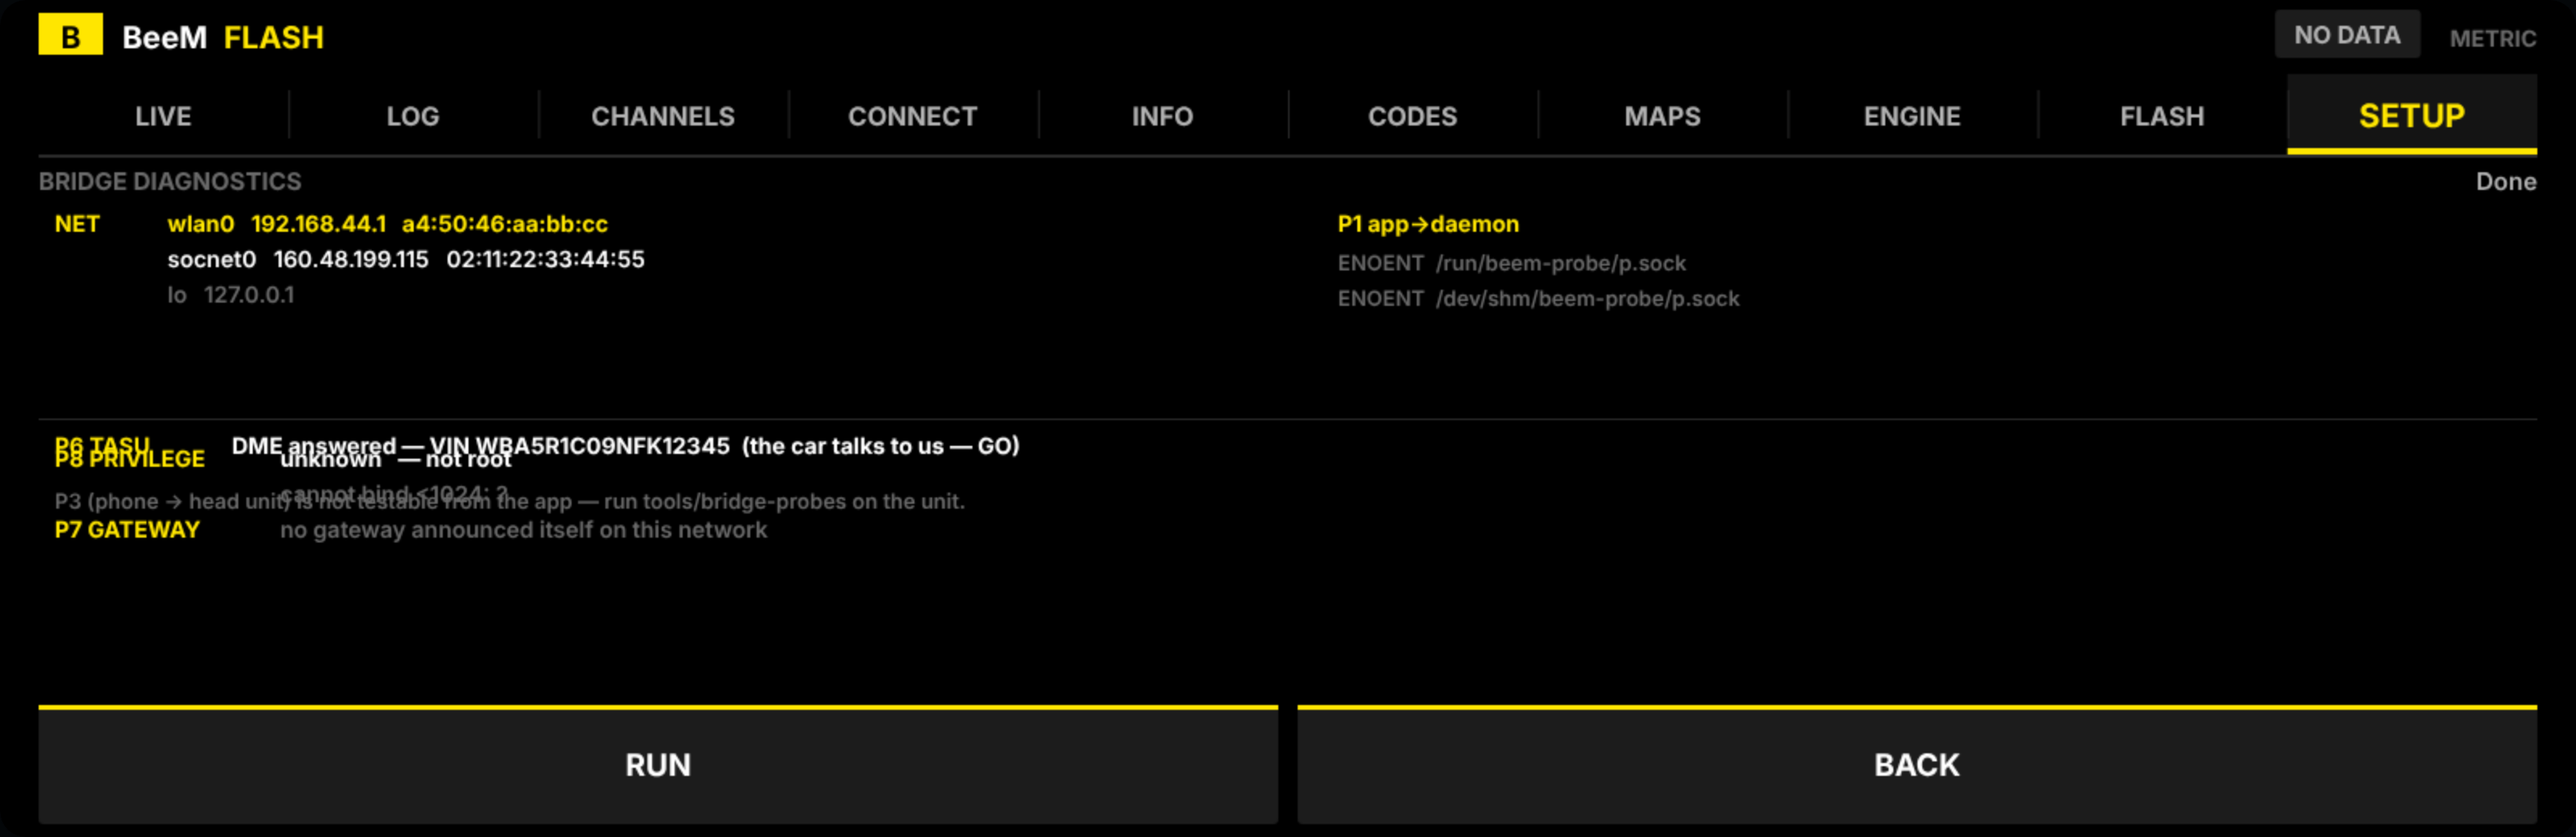
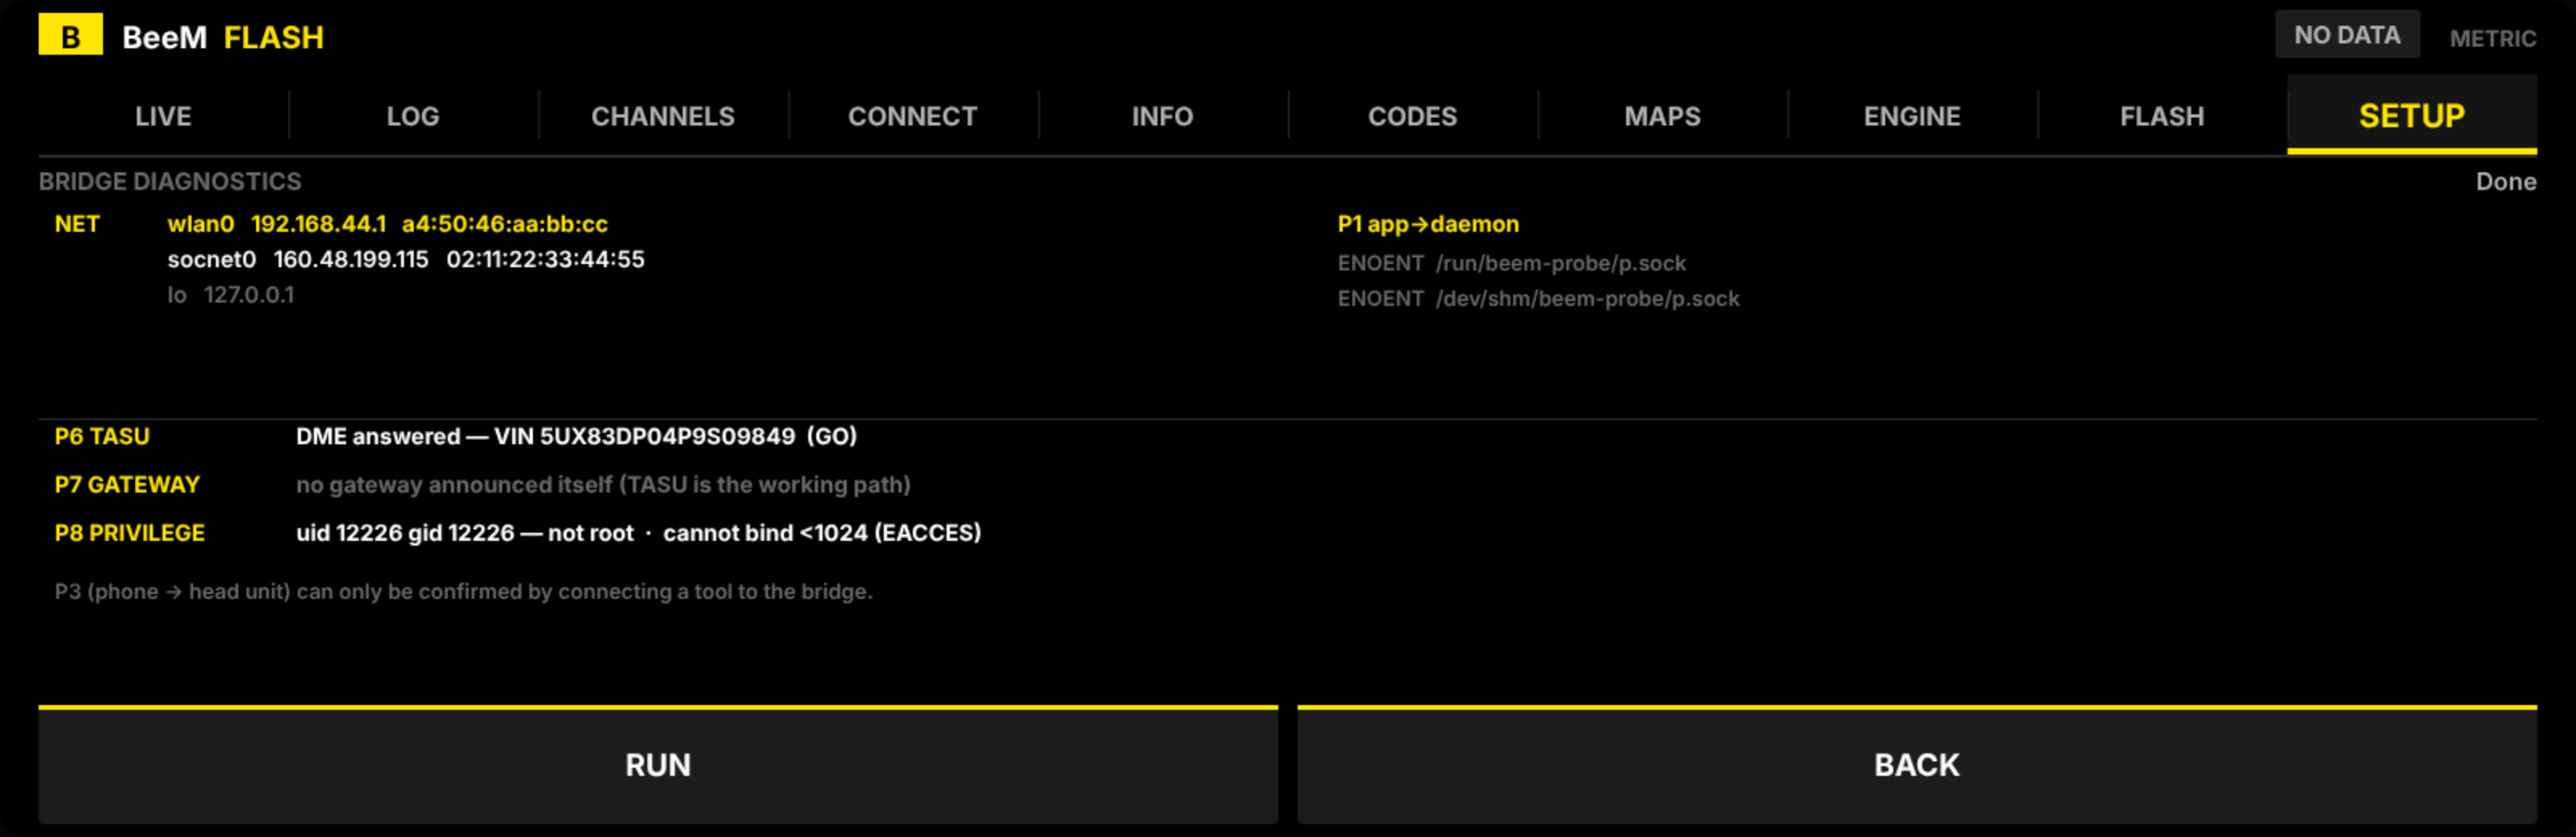
v2.21.1: make the bridge listener re-bind reliably, and declutter DIAG
On-car the bridge failed to come up with EADDRINUSE, which blocks every
connection. Cause: stop() closed the server but left open tool connections
alive, so the OS did not release the port before the next start() - a quick
off/on (or the app restarting on car wake) then hit EADDRINUSE.

- stop() now destroys any open tool connections first, so the socket is
  released promptly.
- start() retries the bind through EADDRINUSE up to 6 times with a growing
  pause (300ms..1.5s), dropping any listener we still hold between tries,
  instead of giving up after one retry.

DIAG page (SETUP -> DIAGNOSTICS) was cluttered: P6/P8/P3 drew on top of each
other. The lower half is now one probe per row, evenly spaced and each line
clipped to its width - P6 TASU, P7 GATEWAY, P8 PRIVILEGE, then the P3 note.

542 tests pass (4 new): an open tool connection is tracked, stop() destroys
it, and binding the SAME port again immediately after stop() succeeds.

Claude-Session: https://claude.ai/code/session_016L48f8yNjthyyRfnj72ByZ

Changed region(s): [[0.0, 0.4923, 0.4062, 0.6462], [0.0312, 0.6769, 0.3438, 0.7385]]

diff --git a/apps/wali_datalog/bridgeserver.js b/apps/wali_datalog/bridgeserver.js
@@ -56,7 +56,40 @@ BridgeServer.prototype._net = function () {
 // start() -> Promise<{ ok, host, port, error }>
 // Never throws: a sandbox refusal is an ANSWER (and the UI shows the errno),
 // not a crash.
-BridgeServer.prototype.start = function (_retried) {
+// A single bind attempt. Resolves { ok, host, port } or { ok:false, error }.
+BridgeServer.prototype._bindOnce = function () {
+  var self = this, net = this._net();
+  return new Promise(function (resolve) {
+    var settled = false;
+    function settle(r) { if (!settled) { settled = true; resolve(r); } }
+    var srv;
+    try { srv = net.createServer(function (c) { self._onTool(c); }); }
+    catch (e) { return settle({ ok: false, error: (e && (e.code || e.message)) || String(e) }); }
+    srv.on('error', function (e) {
+      var code = (e && e.code) ? e.code : ((e && e.message) || String(e));
+      try { srv.close(); } catch (x) {}
+      settle({ ok: false, error: code });
+    });
+    function ready() {
+      self.server = srv; self.listening = true; self.lastError = null;
+      var a = null; try { a = srv.address(); } catch (e) {}
+      self.boundHost = (a && a.address) ? a.address : (self.host || '0.0.0.0');
+      self._log('bridge listening on ' + self.boundHost + ':' + self.port);
+      settle({ ok: true, host: self.boundHost, port: self.port });
+    }
+    try {
+      if (self.host) srv.listen(self.port, self.host, ready);
+      else srv.listen(self.port, ready);
+    } catch (e) { settle({ ok: false, error: (e && (e.code || e.message)) || String(e) }); }
+  });
+};
+
+// Bring the listener up, retrying through EADDRINUSE. That code almost always
+// means OUR OWN previous listener has not finished releasing the port (a fast
+// off/on, a reload, or the app restarting on car wake), so we drop whatever we
+// are still holding and try again a few times with a growing pause before
+// reporting failure.
+BridgeServer.prototype.start = function () {
   var self = this;
   if (this.listening) return Promise.resolve({ ok: true, host: this.boundHost, port: this.port });
   var net = this._net();
@@ -64,58 +97,30 @@ BridgeServer.prototype.start = function (_retried) {
     this.lastError = 'no socket support in this runtime';
     return Promise.resolve({ ok: false, error: this.lastError });
   }
-  return new Promise(function (resolve) {
-    var settled = false;
-    function settle(r) { if (!settled) { settled = true; resolve(r); } }
-    var srv;
-    try { srv = net.createServer(function (c) { self._onTool(c); }); }
-    catch (e) {
-      self.lastError = (e && (e.code || e.message)) || String(e);
-      return settle({ ok: false, error: self.lastError });
-    }
-    srv.on('error', function (e) {
-      // EACCES / EPERM -> the sandbox forbids listening (the helper is needed).
-      // EADDRINUSE     -> the port is still held, almost always by OUR OWN
-      //   previous listener that had not finished closing (toggling off then
-      //   on fast, or a reload). Drop whatever we have and try ONCE more after
-      //   a moment before giving up.
-      var code = (e && e.code) ? e.code : ((e && e.message) || String(e));
-      self.listening = false;
-      self.server = null;
-      self._log('bridge listener failed: ' + code);
-      if (code === 'EADDRINUSE' && !_retried) {
-        try { srv.close(); } catch (x) {}
-        setTimeout(function () {
-          self.start(true).then(settle);
-        }, 600);
-        return;
+  var MAX = 6;
+  function loop(n) {
+    return self._bindOnce().then(function (r) {
+      if (r.ok) return r;
+      if (r.error === 'EADDRINUSE' && n < MAX) {
+        if (self.server) { try { self.server.close(); } catch (e) {} self.server = null; }
+        self.listening = false;
+        return new Promise(function (res) { setTimeout(res, 300 * n); }).then(function () { return loop(n + 1); });
       }
-      self.lastError = code;
-      settle({ ok: false, error: code });
+      self.lastError = r.error; self.listening = false; self.server = null;
+      self._log('bridge listener failed: ' + r.error);
+      return r;
     });
-    try {
-      if (self.host) srv.listen(self.port, self.host, ready);
-      else srv.listen(self.port, ready);
-    } catch (e) {
-      self.lastError = (e && (e.code || e.message)) || String(e);
-      return settle({ ok: false, error: self.lastError });
-    }
-    function ready() {
-      self.server = srv;
-      self.listening = true;
-      self.lastError = null;
-      var a = null;
-      try { a = srv.address(); } catch (e) {}
-      self.boundHost = (a && a.address) ? a.address : (self.host || '0.0.0.0');
-      self._log('bridge listening on ' + self.boundHost + ':' + self.port);
-      settle({ ok: true, host: self.boundHost, port: self.port });
-    }
-  });
+  }
+  return loop(1);
 };
 
 BridgeServer.prototype.stop = function () {
   this.peers = [];
   this.listening = false;
+  // Drop any open tool connections first; otherwise server.close() lingers until
+  // they end and the port is not released, which is what caused EADDRINUSE on a
+  // quick off/on.
+  if (this._conns) { this._conns.forEach(function (c) { try { c.destroy(); } catch (e) {} }); this._conns = []; }
   if (this.server) { try { this.server.close(); } catch (e) {} this.server = null; }
 };
 
@@ -139,6 +144,8 @@ BridgeServer.prototype._onTool = function (c) {
   var self = this;
   var peer = { ip: c.remoteAddress || '?', mac: null };
   this.peers.push(peer);
+  if (!this._conns) this._conns = [];
+  this._conns.push(c);
   var mode = null;                    // 'doip' | 'raw' — decided from the first bytes
   var buf = Buffer.alloc(0);
   this._log('tool connected from ' + peer.ip);
@@ -203,6 +210,7 @@ BridgeServer.prototype._onTool = function (c) {
 
   function gone() {
     for (var i = 0; i < self.peers.length; i++) if (self.peers[i] === peer) { self.peers.splice(i, 1); break; }
+    if (self._conns) for (var j = 0; j < self._conns.length; j++) if (self._conns[j] === c) { self._conns.splice(j, 1); break; }
   }
   c.on('error', gone);
   c.on('close', gone);

diff --git a/apps/wali_datalog/screens.js b/apps/wali_datalog/screens.js
@@ -700,46 +700,52 @@ function setupDiag(cv, t, view, R) {
     cv.text(sk.status.toUpperCase() + '  ' + sk.path, R2, y + 24 + j * 22, 15, okk ? t.accent : t.faint, { weight: okk ? 'bold' : 'normal' });
   }
   if (!socks.length) cv.text('no socket paths tested', R2, y + 24, 15, t.faint, {});
-  // TASU (P6)
-  var ty = R.y + 150;
-  cv.fillRect(R.x, ty - 16, R.w, 1, t.line);
-  cv.text('P6 TASU', L, ty + 6, 16, t.accent, { weight: 'bold' });
-  var tu = res.tasu || {};
-  var tmsg, tcol;
-  if (tu.status === 'ok') { tmsg = 'DME answered \u2014 VIN ' + (tu.vin || '') + '  (the car talks to us \u2014 GO)'; tcol = t.text; }
-  else if (tu.status === 'nrc') { tmsg = 'DME refused: NRC 0x' + (tu.nrc || 0).toString(16).toUpperCase() + ' (reached the ECU, it declined this read)'; tcol = t.warn; }
-  else if (tu.status === 'no-reply') { tmsg = 'No reply from the DME (' + (tu.note || '') + ')'; tcol = t.crit; }
-  else if (tu.status === 'no-link') { tmsg = 'No diagnostic link in this build'; tcol = t.faint; }
-  else { tmsg = 'Unexpected: ' + JSON.stringify(tu).slice(0, 60); tcol = t.dim; }
-  cv.text(tmsg, L + 110, ty + 6, 17, tcol, { weight: 'bold' });
-  // P8 — what this app process is actually allowed to do
-  var pv = res.priv || {}, pb = res.privBind || {};
-  var py = R.y + R.h - 136;
-  cv.text('P8 PRIVILEGE', L, py, 16, t.accent, { weight: 'bold' });
-  var who = (pv.uid == null) ? 'unknown' : ('uid ' + pv.uid + '  gid ' + pv.gid + (pv.euid != null && pv.euid !== pv.uid ? '  euid ' + pv.euid : ''));
-  cv.text(who + (pv.root ? '   \u2014 ROOT' : '   \u2014 not root'), L + 140, py, 16, pv.root ? t.good : t.text, { weight: 'bold' });
-  cv.text(pb.ok ? 'can bind privileged ports (<1024)' : ('cannot bind <1024: ' + (pb.error || '?')),
-    L + 140, py + 22, 16, pb.ok ? t.good : t.faint, {});
-
-  // P7 — the car's gateway over IP
-  var gwres = res.gateway || {};
-  var gy = R.y + R.h - 92;
-  cv.text('P7 GATEWAY', L, gy, 16, t.accent, { weight: 'bold' });
-  var ident = gwres.identify || {}, reach = gwres.reachable || [];
-  if (gwres.error) {
-    cv.text(gwres.error, L + 140, gy, 16, t.faint, {});
-  } else if (ident.replies && ident.replies.length) {
-    cv.text('answered by ' + ident.replies.map(function (r) { return r.from; }).join(', '), L + 140, gy, 16, t.good, { weight: 'bold' });
-    var okp = reach.filter(function (r) { return r.ok; });
-    cv.text(okp.length ? ('open: ' + okp.map(function (r) { return r.host + ':' + r.port; }).join('  ')) : 'no diagnostic port accepted a connection',
-      L + 140, gy + 22, 16, okp.length ? t.good : t.warn, {});
-  } else if (ident.error) {
-    cv.text('UDP refused by the sandbox (' + ident.error + ')', L + 140, gy, 16, t.warn, {});
-  } else {
-    cv.text('no gateway announced itself on ' + ((ident.asked || []).join(', ') || 'this network'), L + 140, gy, 16, t.faint, {});
+  // ---- lower half: one probe per row, evenly spaced, each clipped ----------
+  var ly = R.y + 150, lrh = 30, lvx = L + 150, lvw = R.w - 160;
+  cv.fillRect(R.x, ly - 16, R.w, 1, t.line);
+  function diagRow(i, label, value, col) {
+    var yy = ly + i * lrh;
+    cv.text(label, L, yy, 16, t.accent, { weight: 'bold' });
+    var sv = String(value == null ? '' : value);
+    if (cv.textWidth(sv, 16, 'bold') > lvw) {
+      while (sv.length > 4 && cv.textWidth(sv + '\u2026', 16, 'normal') > lvw) sv = sv.slice(0, -1);
+      sv += '\u2026';
+    }
+    cv.text(sv, lvx, yy, 16, col || t.text, { weight: 'bold' });
   }
 
-  cv.text('P3 (phone \u2192 head unit) is not testable from the app \u2014 run tools/bridge-probes on the unit.', L, ty + 40, 15, t.faint, {});
+  // P6 TASU — the link that actually works
+  var tu = res.tasu || {};
+  var tmsg, tcol;
+  if (tu.status === 'ok') { tmsg = 'DME answered \u2014 VIN ' + (tu.vin || '') + '  (GO)'; tcol = t.good; }
+  else if (tu.status === 'nrc') { tmsg = 'DME refused NRC 0x' + (tu.nrc || 0).toString(16).toUpperCase() + ' (reached the ECU)'; tcol = t.warn; }
+  else if (tu.status === 'no-reply') { tmsg = 'No reply from the DME (' + (tu.note || '') + ')'; tcol = t.crit; }
+  else if (tu.status === 'no-link') { tmsg = 'no diagnostic link in this build'; tcol = t.faint; }
+  else { tmsg = 'unexpected'; tcol = t.dim; }
+  diagRow(0, 'P6 TASU', tmsg, tcol);
+
+  // P7 GATEWAY — the car's gateway over IP (one line)
+  var gwres = res.gateway || {}, ident = gwres.identify || {}, reach = gwres.reachable || [];
+  var p7, p7c;
+  if (gwres.error) { p7 = gwres.error; p7c = t.faint; }
+  else if (ident.replies && ident.replies.length) {
+    var okp = reach.filter(function (r) { return r.ok; });
+    p7 = 'answered by ' + ident.replies.map(function (r) { return r.from; }).join(', ') +
+      (okp.length ? '  \u00b7  open ' + okp.map(function (r) { return r.port; }).join('/') : '  \u00b7  no port open');
+    p7c = okp.length ? t.good : t.warn;
+  } else if (ident.error) { p7 = 'UDP refused by the sandbox (' + ident.error + ')'; p7c = t.warn; }
+  else { p7 = 'no gateway announced itself (TASU is the working path)'; p7c = t.faint; }
+  diagRow(1, 'P7 GATEWAY', p7, p7c);
+
+  // P8 PRIVILEGE — what the app process may do (one line)
+  var pv = res.priv || {}, pb = res.privBind || {};
+  var who = (pv.uid == null) ? 'unknown' : ('uid ' + pv.uid + ' gid ' + pv.gid);
+  var p8 = who + (pv.root ? ' \u2014 ROOT' : ' \u2014 not root') + '  \u00b7  ' +
+    (pb.ok ? 'can bind <1024' : 'cannot bind <1024 (' + (pb.error || '?') + ')');
+  diagRow(2, 'P8 PRIVILEGE', p8, pv.root ? t.good : t.text);
+
+  // P3 note
+  cv.text('P3 (phone \u2192 head unit) can only be confirmed by connecting a tool to the bridge.', L, ly + 3 * lrh + 6, 15, t.faint, {});
 }
 
 // Settings grid geometry, shared by the renderer and the tap handler so the two

diff --git a/test/run.js b/test/run.js
@@ -1181,6 +1181,7 @@ Promise.resolve()
   .then(discoveryTests)
   .then(tunePickerTests)
   .then(pollingControlTests)
+  .then(rebindTests)
   .then(report)
   .catch(function (e) { console.error(e); process.exit(1); });
 
@@ -2017,4 +2018,34 @@ function pollingControlTests() {
   app._applyPolling();
   ok(app.diag.timer === 1, 'polling: pollers resume once the tool disconnects');
   return Promise.resolve();
+}
+
+// ---- the bridge listener re-binds after a fast off/on (EADDRINUSE recovery) --
+function rebindTests() {
+  var net = require('net');
+  var BridgeServer = require(A + 'bridgeserver');
+  var BridgeGate = require(A + 'bridgegate');
+  var gate = new BridgeGate({ storage: null }); gate.acknowledge(); gate.enable(); gate.arm(60000);
+  var srv = new BridgeServer({ port: 0, host: '127.0.0.1', gate: gate, sendTo: function () { return Promise.resolve([0x62]); } });
+
+  return srv.start().then(function (r) {
+    ok(r.ok, 'rebind: listener comes up');
+    var port = srv.server.address().port;
+    // open a tool connection, then stop() while it is open
+    return new Promise(function (resolve) {
+      var c = net.connect(port, '127.0.0.1');
+      c.on('connect', function () { setTimeout(function () { resolve(port); }, 30); });
+      c.on('error', function () { resolve(port); });
+    }).then(function (port) {
+      ok(srv._conns && srv._conns.length >= 1, 'rebind: an open tool connection is tracked');
+      srv.stop();                       // destroys the connection + closes the socket
+      srv.host = '127.0.0.1'; srv.port = port;
+      // immediately bind the SAME port again - this used to fail EADDRINUSE
+      return srv.start();
+    });
+  }).then(function (r2) {
+    ok(r2.ok, 'rebind: binding the same port again right after stop() succeeds');
+    srv.stop();
+    ok(!srv.listening, 'rebind: stop() leaves nothing listening');
+  });
 }

diff --git a/runtime/web/index.html b/runtime/web/index.html
@@ -169,7 +169,10 @@
       app.bdiag = { running: false, msg: 'Done', result: {
         net: [ { iface: 'wlan0', ip: '192.168.44.1', mac: 'a4:50:46:aa:bb:cc', internal: false }, { iface: 'socnet0', ip: '160.48.199.115', mac: '02:11:22:33:44:55', internal: false }, { iface: 'lo', ip: '127.0.0.1', mac: '', internal: true } ],
         sockets: [ { path: '/run/beem-probe/p.sock', status: 'ENOENT' }, { path: '/dev/shm/beem-probe/p.sock', status: 'ENOENT' } ],
-        tasu: { status: 'ok', vin: 'WBA5R1C09NFK12345', bytes: 20 } } };
+        tasu: { status: 'ok', vin: '5UX83DP04P9S09849', bytes: 20 },
+        priv: { uid: 12226, gid: 12226, euid: 12226, root: false },
+        privBind: { ok: false, port: 1023, error: 'EACCES' },
+        gateway: { identify: { replies: [], asked: ['172.16.222.255','255.255.255.255'] }, reachable: [] } } };
       app.render(cv); cap = 'SETUP → DIAGNOSTICS (sample result)';
     }
     else { app = makeApp(); app.tab = 'live'; app.render(cv); }
